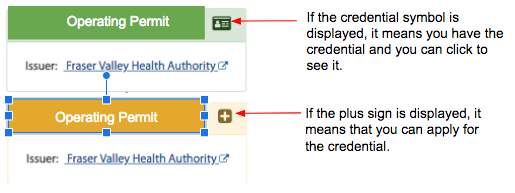
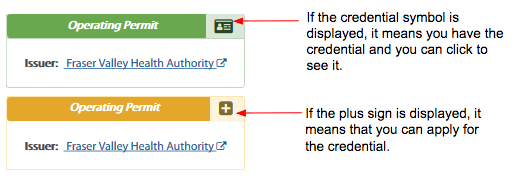
Updated images in "about" component. Renamed schemas and bumped schema versions.

Changed region(s): [[0.0, 0.2798, 0.5903, 0.9016], [0.0, 0.0311, 0.4971, 0.2176]]

diff --git a/dflow-demo/src/app/components/home/home.component.html b/dflow-demo/src/app/components/home/home.component.html
@@ -60,7 +60,7 @@
 
       <div class="row">
         <div class="col">
-            <p class="fun-facts text-justify p-2 rounded">
+            <p class="fun-facts p-2 rounded">
               <span class="font-weight-bold">DID YOU KNOW:</span> GreenLight contains the public data from more than 410,000 registered corporations in British Columbia.
               Other credential issuers can join, so the foundational data GreenLight can access will grow and become even more powerful.
             </p>

diff --git a/dflow-demo/src/app/components/header/header.component.html b/dflow-demo/src/app/components/header/header.component.html
@@ -20,7 +20,7 @@
         <li class="nav-item">
           <div class="d-none d-md-block align-middle">
             <img class="img-fluid float-right"
-              [src]="'assets/img/greenlight-logo.png'" width="35" height="44"
+              [src]="'assets/img/gl-logo.png'" width="35" height="44"
               tabindex="-1" alt="GreenLight Logo">
           </div>
         </li>

diff --git a/dflow-demo/src/app/components/workflow/workflow-step/workflow-step.component.html b/dflow-demo/src/app/components/workflow/workflow-step/workflow-step.component.html
@@ -29,7 +29,7 @@
 
     <div class="card-body">
 
-      <div>
+      <div class="text-center">
         <span class="mx-1 font-weight-bold">Issuer:</span>
         <span class="mx-1">
           <a rel="external" target="_blank" href="{{step.issuer.url}}">

diff --git a/dflow-demo/src/app/components/workflow/workflow-step/workflow-step.component.scss b/dflow-demo/src/app/components/workflow/workflow-step/workflow-step.component.scss
@@ -1,3 +1,7 @@
+.workflow-node {
+  min-width: 275px;
+}
+
 .icon-link {
   color: inherit;
 }
